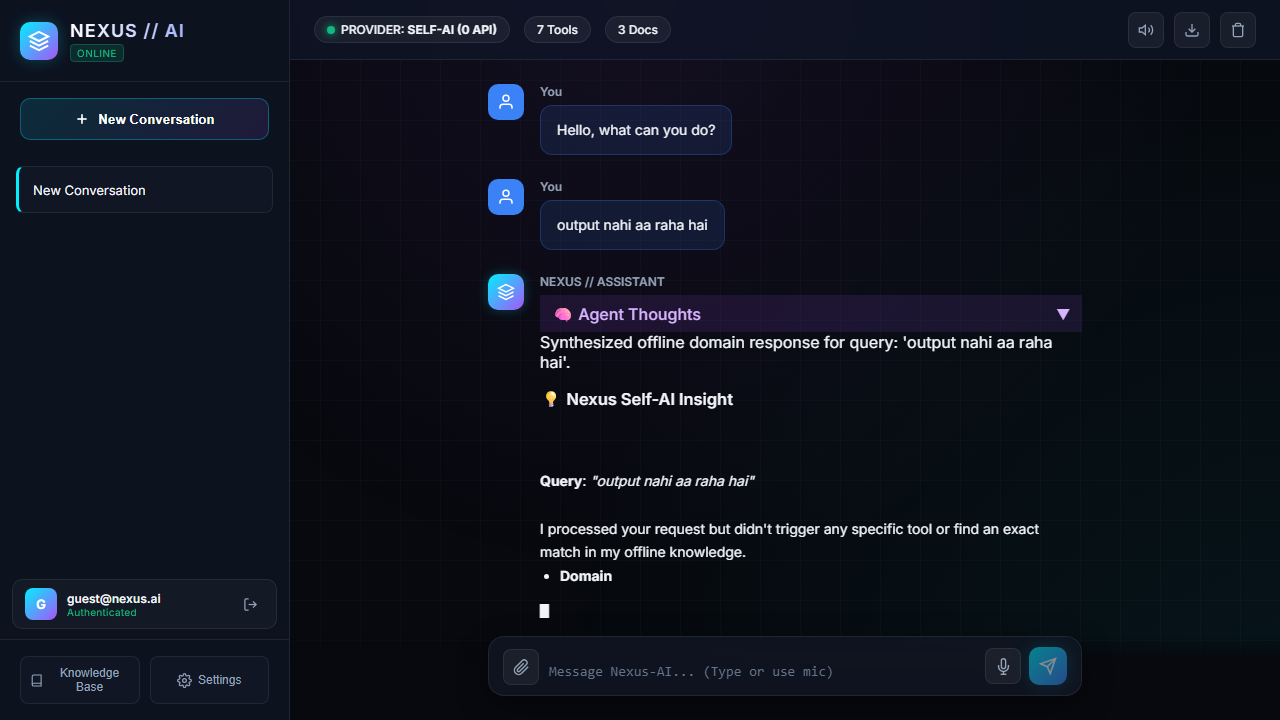
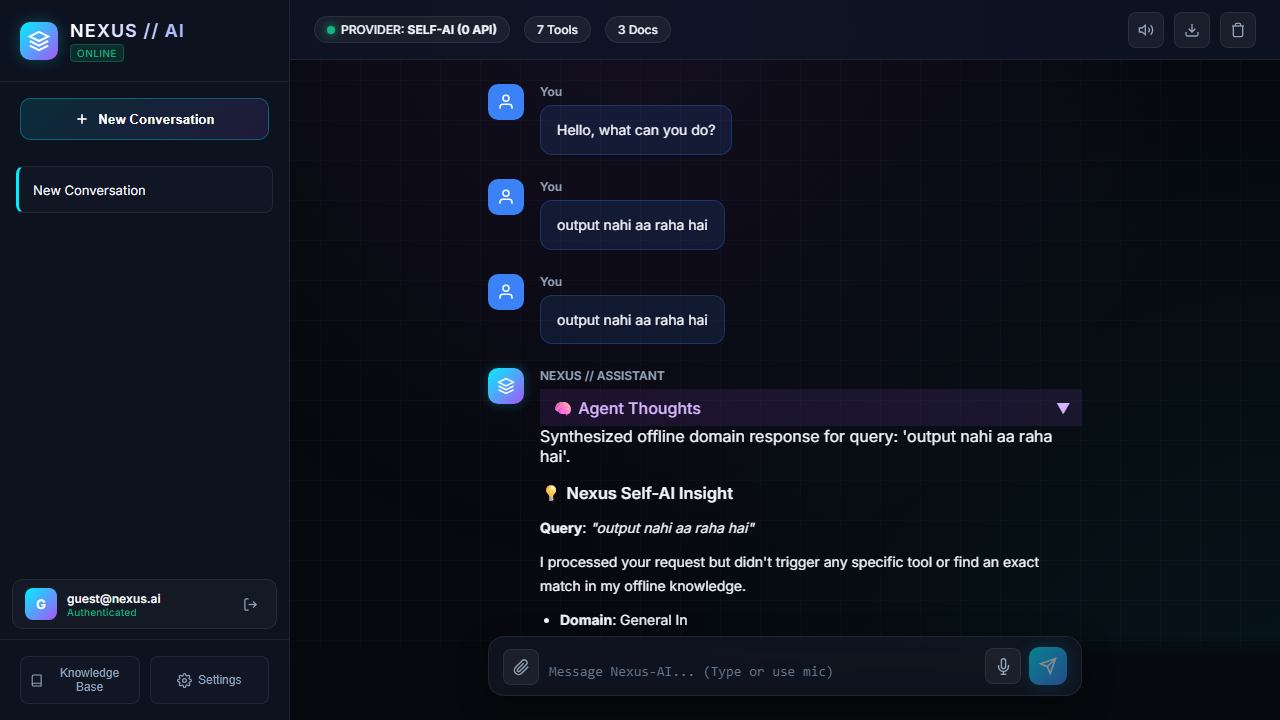
Add files via upload

Changed region(s): [[0.375, 0.3972, 0.8438, 0.8556], [0.375, 0.3667, 0.5312, 0.4278], [0.4375, 0.8556, 0.5312, 0.8861]]

diff --git a/advance ai/frontend/static/app.js b/advance ai/frontend/static/app.js
@@ -4,6 +4,26 @@ class NexusApp {
     this.sessionId = null;
     this.ws = null;
     this.isGenerating = false;
+    this.isLightMode = localStorage.getItem('nexus-light-mode') === 'true';
+
+    // Initialize Theme
+    this.applyTheme();
+
+    // Markdown configuration
+    if (typeof marked !== 'undefined') {
+      marked.setOptions({
+        breaks: true,
+        gfm: true,
+        highlight: function(code, lang) {
+          if (typeof hljs !== 'undefined') {
+            const language = hljs.getLanguage(lang) ? lang : 'plaintext';
+            return hljs.highlight(code, { language }).value;
+          }
+          return code;
+        }
+      });
+    }
+
     this.currentAssistantMessageEl = null;
     this.currentThoughtEl = null;
     this.currentContentEl = null;
@@ -46,6 +66,7 @@ class NexusApp {
     this.clearRagBtn = document.getElementById('clear-rag-btn');
 
     // Header Actions
+    this.themeToggleBtn = document.getElementById('theme-toggle-btn');
     this.exportChatBtn = document.getElementById('export-chat-btn');
     this.exportDropdown = document.getElementById('export-dropdown');
     this.clearChatBtn = document.getElementById('clear-chat-btn');
@@ -449,6 +470,9 @@ class NexusApp {
 
     if (this.clearChatBtn) {
       this.clearChatBtn.addEventListener('click', () => this.clearCurrentConversation());
+    }
+    if (this.themeToggleBtn) {
+      this.themeToggleBtn.addEventListener('click', () => this.toggleTheme());
     }
 
     // Modal Triggers
@@ -1083,6 +1107,46 @@ class NexusApp {
       URL.revokeObjectURL(url);
     } catch (e) {
       alert('Failed to export conversation: ' + e.message);
+    }
+  }
+
+  toggleTheme() {
+    this.isLightMode = !this.isLightMode;
+    localStorage.setItem('nexus-light-mode', this.isLightMode);
+    this.applyTheme();
+  }
+
+  applyTheme() {
+    if (this.isLightMode) {
+      document.documentElement.classList.add('light-mode');
+      if (this.themeToggleBtn) {
+        this.themeToggleBtn.innerHTML = `
+          <svg width="16" height="16" viewBox="0 0 24 24" fill="none" stroke="currentColor" stroke-width="2">
+            <path d="M21 12.79A9 9 0 1 1 11.21 3 7 7 0 0 0 21 12.79z"></path>
+          </svg>
+        `;
+      }
+      const hljsTheme = document.getElementById('highlight-theme');
+      if (hljsTheme) hljsTheme.href = 'https://cdnjs.cloudflare.com/ajax/libs/highlight.js/11.9.0/styles/github.min.css';
+    } else {
+      document.documentElement.classList.remove('light-mode');
+      if (this.themeToggleBtn) {
+        this.themeToggleBtn.innerHTML = `
+          <svg width="16" height="16" viewBox="0 0 24 24" fill="none" stroke="currentColor" stroke-width="2">
+            <circle cx="12" cy="12" r="5"></circle>
+            <line x1="12" y1="1" x2="12" y2="3"></line>
+            <line x1="12" y1="21" x2="12" y2="23"></line>
+            <line x1="4.22" y1="4.22" x2="5.64" y2="5.64"></line>
+            <line x1="18.36" y1="18.36" x2="19.78" y2="19.78"></line>
+            <line x1="1" y1="12" x2="3" y2="12"></line>
+            <line x1="21" y1="12" x2="23" y2="12"></line>
+            <line x1="4.22" y1="19.78" x2="5.64" y2="18.36"></line>
+            <line x1="18.36" y1="5.64" x2="19.78" y2="4.22"></line>
+          </svg>
+        `;
+      }
+      const hljsTheme = document.getElementById('highlight-theme');
+      if (hljsTheme) hljsTheme.href = 'https://cdnjs.cloudflare.com/ajax/libs/highlight.js/11.9.0/styles/github-dark.min.css';
     }
   }
 

diff --git a/advance ai/frontend/index.html b/advance ai/frontend/index.html
@@ -3,7 +3,7 @@
 <head>
   <meta charset="UTF-8">
   <meta name="viewport" content="width=device-width, initial-scale=1.0">
-  <meta http-equiv="Content-Security-Policy" content="default-src 'self' 'unsafe-inline' 'unsafe-eval' https: http: ws: wss: data: blob:; script-src 'self' 'unsafe-inline' 'unsafe-eval'; style-src 'self' 'unsafe-inline' https://fonts.googleapis.com; font-src 'self' https://fonts.gstatic.com data:; img-src 'self' data: blob: https:; connect-src 'self' ws: wss: http: https:;">
+  <meta http-equiv="Content-Security-Policy" content="default-src 'self' 'unsafe-inline' 'unsafe-eval' https: http: ws: wss: data: blob:; script-src 'self' 'unsafe-inline' 'unsafe-eval' https://cdnjs.cloudflare.com; style-src 'self' 'unsafe-inline' https://fonts.googleapis.com https://cdnjs.cloudflare.com; font-src 'self' https://fonts.gstatic.com data:; img-src 'self' data: blob: https:; connect-src 'self' ws: wss: http: https:;">
   <title>Nexus-AI // Autonomous Intelligence Platform</title>
   <link rel="preconnect" href="https://fonts.googleapis.com">
   <link rel="preconnect" href="https://fonts.gstatic.com" crossorigin>
@@ -94,6 +94,19 @@
         </div>
 
         <div class="header-actions">
+          <button id="theme-toggle-btn" class="action-btn" title="Toggle Light/Dark Mode">
+            <svg width="16" height="16" viewBox="0 0 24 24" fill="none" stroke="currentColor" stroke-width="2">
+              <circle cx="12" cy="12" r="5"></circle>
+              <line x1="12" y1="1" x2="12" y2="3"></line>
+              <line x1="12" y1="21" x2="12" y2="23"></line>
+              <line x1="4.22" y1="4.22" x2="5.64" y2="5.64"></line>
+              <line x1="18.36" y1="18.36" x2="19.78" y2="19.78"></line>
+              <line x1="1" y1="12" x2="3" y2="12"></line>
+              <line x1="21" y1="12" x2="23" y2="12"></line>
+              <line x1="4.22" y1="19.78" x2="5.64" y2="18.36"></line>
+              <line x1="18.36" y1="5.64" x2="19.78" y2="4.22"></line>
+            </svg>
+          </button>
           <button id="tts-btn" class="action-btn" title="Toggle Voice Output (TTS)">
             <svg width="16" height="16" viewBox="0 0 24 24" fill="none" stroke="currentColor" stroke-width="2">
               <polygon points="11 5 6 9 2 9 2 15 6 15 11 19 11 5"></polygon>
@@ -299,6 +312,8 @@
   </div>
 
   <!-- Core Application Scripts -->
+  <link rel="stylesheet" href="https://cdnjs.cloudflare.com/ajax/libs/highlight.js/11.9.0/styles/github-dark.min.css" id="highlight-theme">
+  <script src="https://cdnjs.cloudflare.com/ajax/libs/highlight.js/11.9.0/highlight.min.js"></script>
   <script src="/static/marked.min.js"></script>
   <script src="/static/app.js?v=2"></script>
 </body>

diff --git a/advance ai/dom.html b/advance ai/dom.html
@@ -1,0 +1,9 @@
+<h3>💡 Nexus Self-AI Insight</h3>
+<p><strong>Query</strong>: <em>"output nahi aa raha hai"</em></p>
+<p>I processed your request but didn't trigger any specific tool or find an exact match in my offline knowledge.</p>
+<ul>
+<li><strong>Domain</strong>: General Inquiry</li>
+<li><strong>Overview</strong>: Your query involves analyzing concepts related to <strong>output, nahi, raha, hai</strong>.</li>
+<li><strong>Next Steps</strong>: You can ask me to search the web, calculate formulas, check live dates/weather, or inspect files.</li>
+</ul>
+<p>*Tip: If you would like live factual information, ask me to <strong>"search web for output nahi aa raha hai"</strong>!*</p>

diff --git a/advance ai/frontend/static/styles.css b/advance ai/frontend/static/styles.css
@@ -19,6 +19,19 @@
   --text-dim: #64748b;
 }
 
+:root.light-mode {
+  --bg-primary: #f8fafc;
+  --bg-secondary: #ffffff;
+  --bg-card: rgba(255, 255, 255, 0.8);
+  --bg-glass: rgba(241, 245, 249, 0.7);
+  --border-glass: rgba(0, 0, 0, 0.1);
+  --border-focus: rgba(0, 200, 255, 0.6);
+  
+  --text-main: #0f172a;
+  --text-muted: #475569;
+  --text-dim: #94a3b8;
+}
+
 * {
   box-sizing: border-box;
   margin: 0;

diff --git a/advance ai/test_theme.py b/advance ai/test_theme.py
@@ -1,0 +1,47 @@
+import asyncio
+from playwright.async_api import async_playwright
+
+async def main():
+    async with async_playwright() as p:
+        browser = await p.chromium.launch(headless=True)
+        page = await browser.new_page()
+        page.on("console", lambda msg: print(f"BROWSER LOG: {msg.text}"))
+        
+        await page.goto('http://localhost:8000')
+        await page.click('#auth-guest-btn')
+        await page.wait_for_timeout(1000)
+        
+        # Inject some markdown code via JS directly to bypass chat typing for speed
+        await page.evaluate('''
+            const markdown = `
+### Python Code Example
+\`\`\`python
+def calculate_sum(a, b):
+    """This function adds two numbers."""
+    return a + b
+    
+print(calculate_sum(5, 10))
+\`\`\`
+            `;
+            window.app.currentAssistantMessageEl = document.createElement('div');
+            window.app.currentAssistantMessageEl.className = 'chat-message message-assistant';
+            window.app.currentContentEl = document.createElement('div');
+            window.app.currentContentEl.className = 'message-content';
+            window.app.currentAssistantMessageEl.appendChild(window.app.currentContentEl);
+            document.getElementById('chat-messages').appendChild(window.app.currentAssistantMessageEl);
+            
+            window.app.currentContentEl.innerHTML = window.app.renderMarkdown(markdown);
+        ''')
+        
+        await page.wait_for_timeout(500)
+        await page.screenshot(path='screenshot_dark_mode.png')
+        
+        # Click the theme toggle button
+        await page.click('#theme-toggle-btn')
+        await page.wait_for_timeout(500)
+        await page.screenshot(path='screenshot_light_mode.png')
+        
+        await browser.close()
+
+if __name__ == '__main__':
+    asyncio.run(main())

diff --git a/advance ai/core/self_ai.py b/advance ai/core/self_ai.py
@@ -876,6 +876,21 @@ class SelfAIEngine:
                     )
                 }
 
+        # 14.5 Debugging and Help in Hindi
+        if any(kw in q for kw in ["output nahi", "error aa", "bug hai", "chal nahi raha", "not working", "kaam nahi kar"]):
+            return {
+                "thought": "Recognized user needs help debugging an issue.",
+                "tool_calls": [],
+                "content": (
+                    "### 🛠 Debugging Assistant\n\n"
+                    "It looks like you are facing an issue or not getting the expected output. "
+                    "To help me fix the bug, please tell me:\n"
+                    "- **What code or command are you running?**\n"
+                    "- **Are there any error messages in the console?**\n\n"
+                    "*Tip: You can paste your code here, and I will analyze it!*"
+                )
+            }
+
         # 15. General Questions & Information Inquiries -> Autonomous Live Web Search
         question_words = [
             "who", "what", "where", "when", "why", "how", "which", "whose", "whom",

diff --git a/advance ai/screenshot.py b/advance ai/screenshot.py
@@ -5,13 +5,17 @@ async def main():
     async with async_playwright() as p:
         browser = await p.chromium.launch(headless=True)
         page = await browser.new_page()
+        page.on("console", lambda msg: print(f"BROWSER LOG: {msg.text}"))
+        page.on("pageerror", lambda err: print(f"PAGE ERROR: {err}"))
         await page.goto('http://localhost:8000')
         await page.click('#auth-guest-btn')
         await page.wait_for_timeout(1000)
         await page.fill('#user-input', 'output nahi aa raha hai')
         await page.click('#send-btn')
-        await page.wait_for_timeout(3000)
-        await page.screenshot(path='screenshot.png')
+        await page.wait_for_timeout(5000)
+        html = await page.locator('.message-content').last.inner_html()
+        with open("dom.html", "w", encoding="utf-8") as f:
+            f.write(html)
         await browser.close()
 
 if __name__ == '__main__':

diff --git a/advance ai/server/app.py b/advance ai/server/app.py
@@ -46,8 +46,8 @@ async def add_security_headers(request, call_next):
     response = await call_next(request)
     response.headers["Content-Security-Policy"] = (
         "default-src 'self' 'unsafe-inline' 'unsafe-eval' https: http: ws: wss: data: blob:; "
-        "script-src 'self' 'unsafe-inline' 'unsafe-eval'; "
-        "style-src 'self' 'unsafe-inline' https://fonts.googleapis.com; "
+        "script-src 'self' 'unsafe-inline' 'unsafe-eval' https://cdnjs.cloudflare.com; "
+        "style-src 'self' 'unsafe-inline' https://fonts.googleapis.com https://cdnjs.cloudflare.com; "
         "font-src 'self' https://fonts.gstatic.com data:; "
         "img-src 'self' data: blob: https:; "
         "connect-src 'self' ws: wss: http: https:;"
